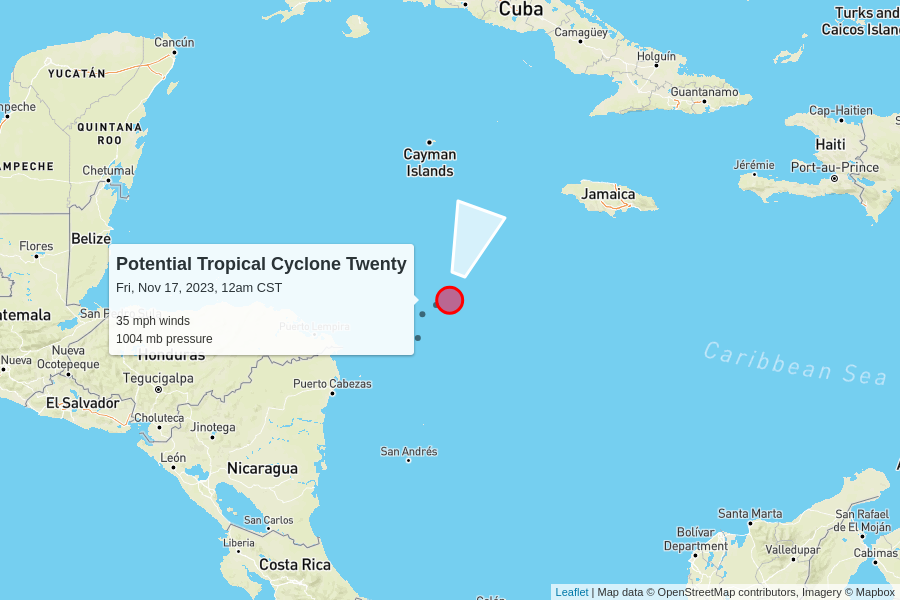
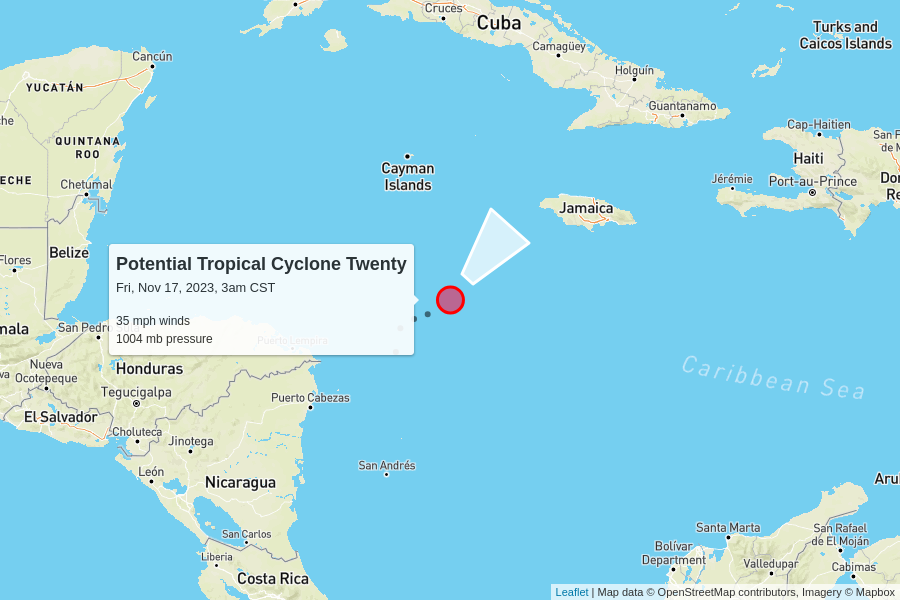
automatic update

diff --git a/docs/index.html b/docs/index.html
@@ -102,7 +102,7 @@
         <td colspan="6" class="storm category-0" >
           <h2>
             Potential Tropical Cyclone Twenty
-            <p class="updated">last updated <span data-time>2023-11-17T06:00:00.000Z</span></p>
+            <p class="updated">last updated <span data-time>2023-11-17T09:00:00.000Z</span></p>
           </h2>
         </td>
       </tr>
@@ -120,9 +120,9 @@
         <td>35 mph<br>0 mph since last update</td>
         <td>1004 mb<br>0 mb since last update</td>
         <td>
-          7 mph to the north-northeast
+          10 mph to the northeast
           <br/>
-          <span style="display: inline-block; font-size: 1.5em; transform: rotate(20deg);">↑</span>
+          <span style="display: inline-block; font-size: 1.5em; transform: rotate(40deg);">↑</span>
         </td>
         <td><a href="https://raw.githubusercontent.com/mgwalker/atlantic-hurricanes/main/data/csv/AL222023.csv">AL222023.csv</a></td>
         <td><a href="https://www.nhc.noaa.gov/archive/2023/TWENTY.shtml?">NHC advisories</a></td>
